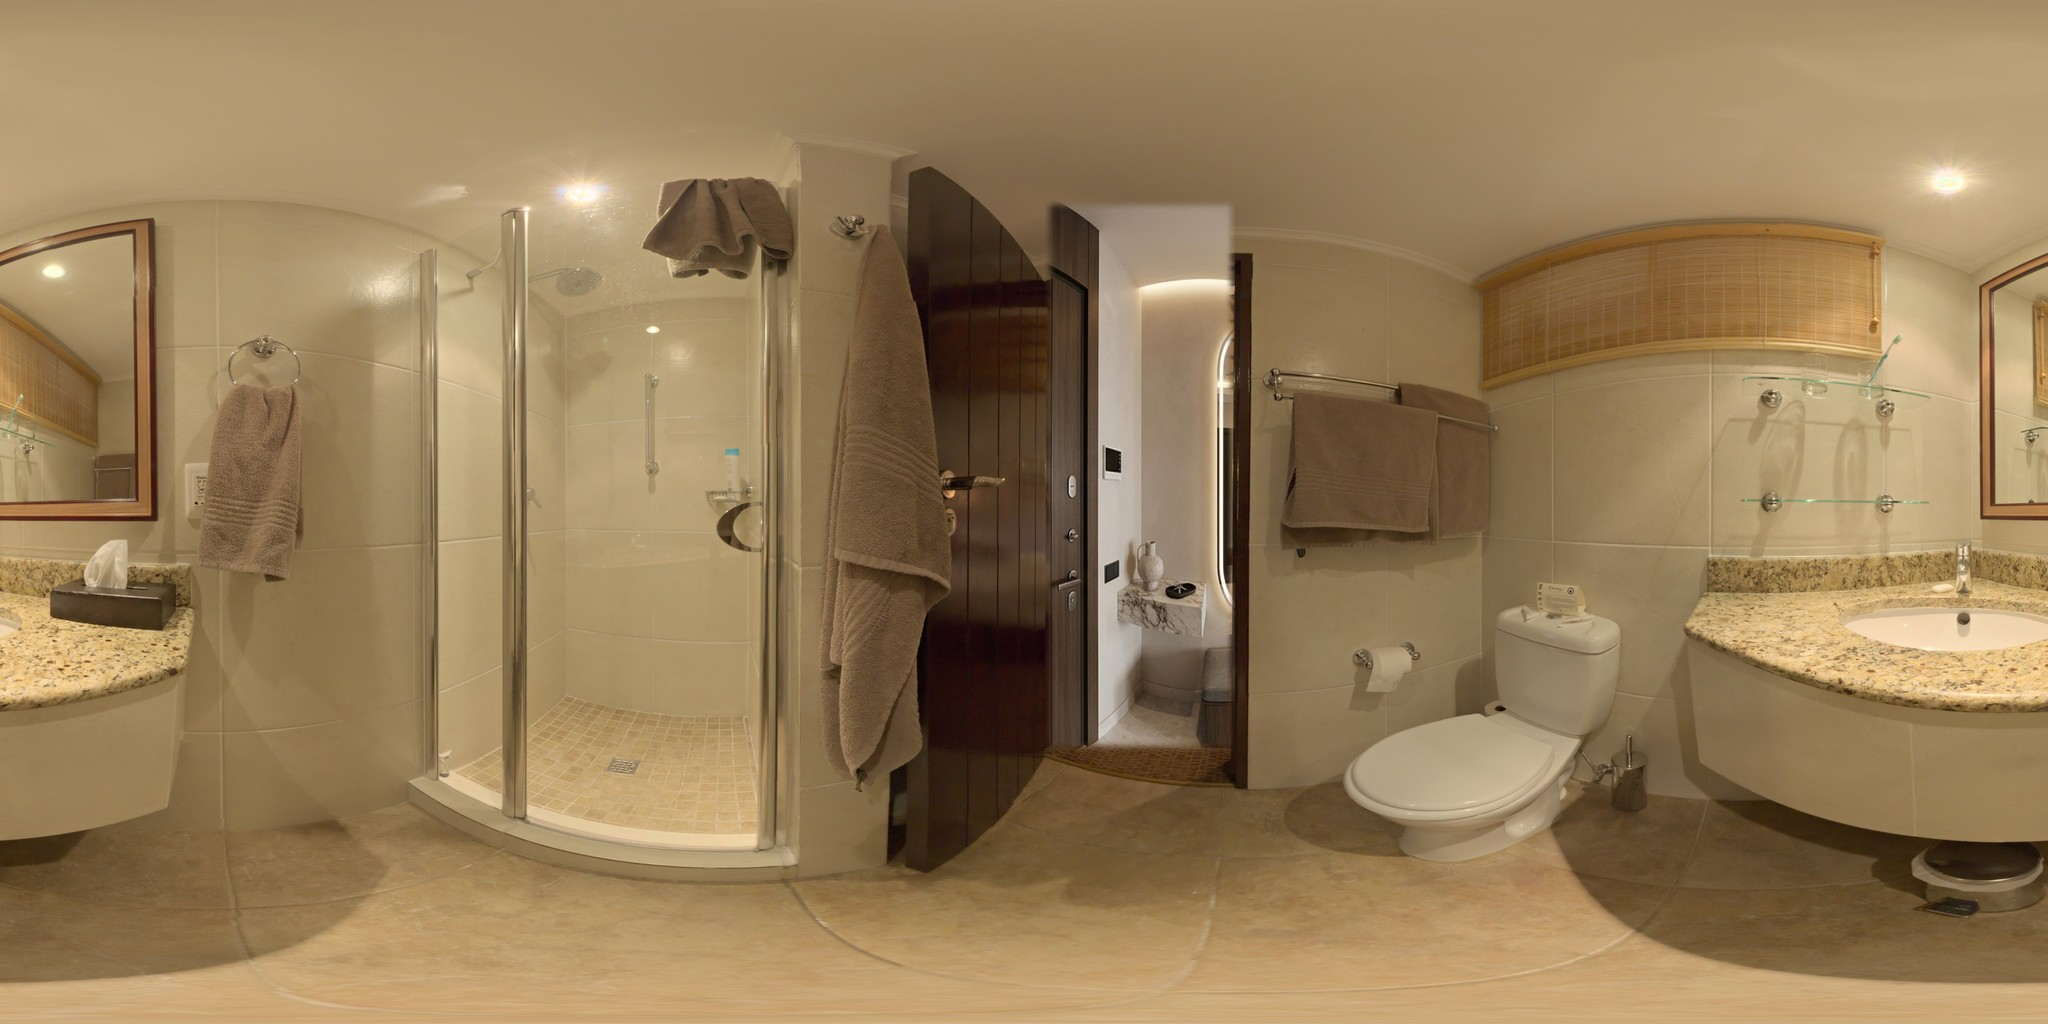
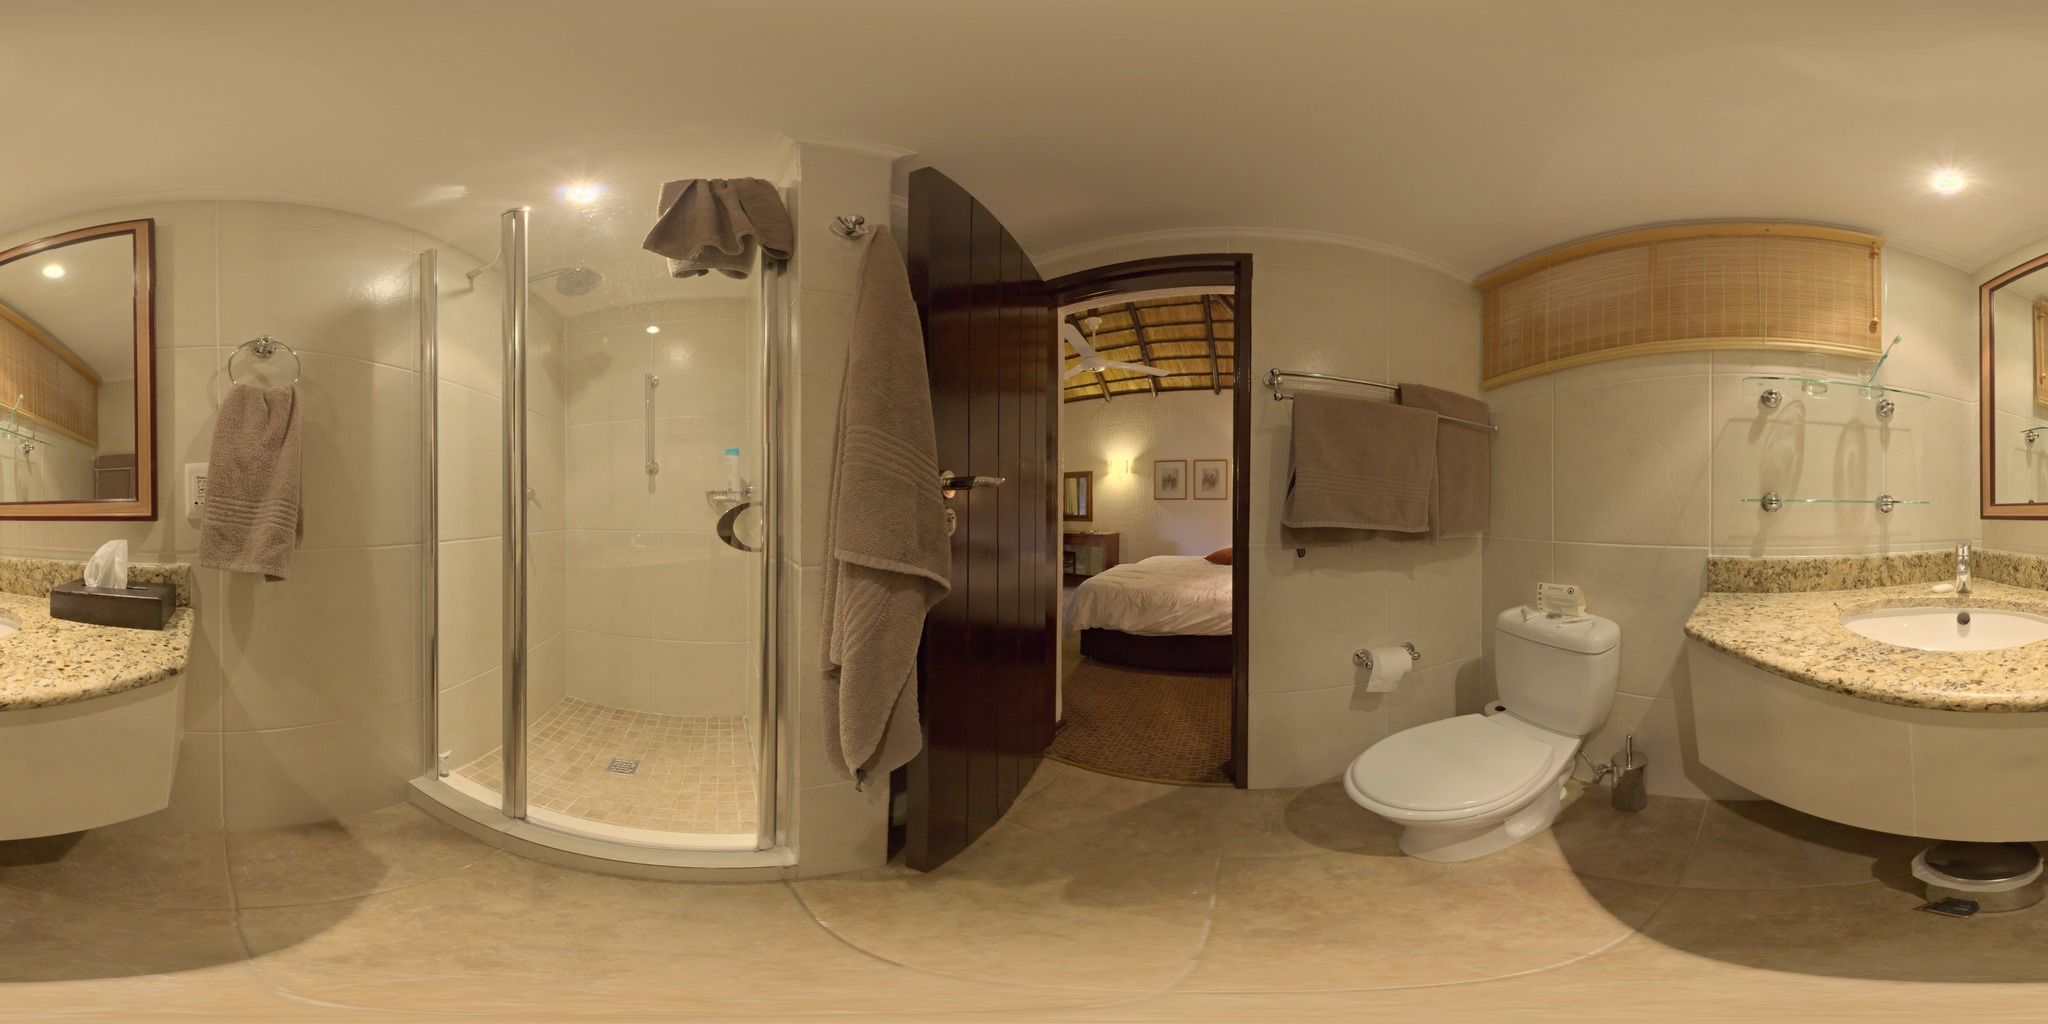
Regenerate Apt 52 360 tour: Pristine ultra-HD renders matching blueprint 1:1, exact door-aligned hotspots, no manual seams

Changed region(s): [[0.5, 0.1875, 0.625, 0.75]]

diff --git a/tour_360/tour_viewer.js b/tour_360/tour_viewer.js
@@ -16,11 +16,11 @@
         name: "Dəhliz / Giriş Zonası",
         icon: "🚪",
         image: "tour_360/apt_52/hall.jpg",
-        initialLon: 18,
+        initialLon: 16,
         hotspots: [
-          { target: "living", pitch: -3.2, yaw: 17.8, label: "🛋 Qonaq Otağı & Mətbəx" },
-          { target: "bedroom", pitch: -4.9, yaw: 48.5, label: "🛏 Əsas Yataq Otağı" },
-          { target: "bathroom", pitch: -4.9, yaw: 132.9, label: "🚿 Hamam Otağı" }
+          { target: "living", pitch: -3.2, yaw: 16.0, label: "🛋 Qonaq Otağı & Mətbəx" },
+          { target: "bathroom", pitch: -6.7, yaw: 92.5, label: "🚿 Hamam Otağı" },
+          { target: "bedroom", pitch: -6.7, yaw: 152.2, label: "🛏 Əsas Yataq Otağı" }
         ]
       },
       living: {
@@ -28,10 +28,10 @@
         name: "Qonaq Otağı & Açıq Mətbəx",
         icon: "🛋",
         image: "tour_360/apt_52/living.jpg",
-        initialLon: 60,
+        initialLon: 10,
         hotspots: [
-          { target: "hall", pitch: -6.7, yaw: -23.6, label: "🚪 Dəhlizə Qayıt" },
-          { target: "balcony", pitch: -6.7, yaw: 122.3, label: "🌿 Eyvana (Balkona) Çıxış" }
+          { target: "balcony", pitch: -3.2, yaw: 9.8, label: "🌿 Eyvana (Balkona) Çıxış" },
+          { target: "hall", pitch: -3.2, yaw: 147.0, label: "🚪 Dəhlizə Qayıt" }
         ]
       },
       bedroom: {
@@ -39,10 +39,10 @@
         name: "Əsas Yataq Otağı",
         icon: "🛏",
         image: "tour_360/apt_52/bedroom.jpg",
-        initialLon: 0,
+        initialLon: 30,
         hotspots: [
-          { target: "hall", pitch: -8.4, yaw: -122.0, label: "🚪 Dəhlizə Qayıt" },
-          { target: "balcony", pitch: -4.9, yaw: 30.9, label: "🌿 Eyvana Çıxış" }
+          { target: "balcony", pitch: -3.2, yaw: 30.9, label: "🌿 Eyvana Çıxış" },
+          { target: "hall", pitch: -6.7, yaw: -116.7, label: "🚪 Dəhlizə Qayıt" }
         ]
       },
       bathroom: {
@@ -50,9 +50,9 @@
         name: "Hamam Otağı & Sanitar Qovşağı",
         icon: "🚿",
         image: "tour_360/apt_52/bathroom.jpg",
-        initialLon: 20,
+        initialLon: 3,
         hotspots: [
-          { target: "hall", pitch: -1.4, yaw: 20.4, label: "🚪 Dəhlizə Qayıt" }
+          { target: "hall", pitch: -3.2, yaw: 2.8, label: "🚪 Dəhlizə Qayıt" }
         ]
       },
       balcony: {
@@ -383,7 +383,7 @@
       return;
     }
 
-    const imgUrl = room.image + (room.image.includes("?") ? "" : "?v=20261015f");
+    const imgUrl = room.image + (room.image.includes("?") ? "" : "?v=20261015h");
     textureLoader.load(
       imgUrl,
       (texture) => {

diff --git a/index.html b/index.html
@@ -279,8 +279,8 @@
   <script src="floorplans/floors_data.js?v=20261015d"></script>
   <script src="floorplan-viewer.js?v=20261015d"></script>
   <script src="https://cdn.jsdelivr.net/npm/three@0.165.0/build/three.min.js"></script>
-  <link rel="stylesheet" href="tour_360/tour_viewer.css?v=20261015g" />
-  <script src="tour_360/tour_viewer.js?v=20261015g"></script>
+  <link rel="stylesheet" href="tour_360/tour_viewer.css?v=20261015h" />
+  <script src="tour_360/tour_viewer.js?v=20261015h"></script>
 </head>
 <body>
 

diff --git a/viewer.html b/viewer.html
@@ -279,8 +279,8 @@
   <script src="floorplans/floors_data.js?v=20261015d"></script>
   <script src="floorplan-viewer.js?v=20261015d"></script>
   <script src="https://cdn.jsdelivr.net/npm/three@0.165.0/build/three.min.js"></script>
-  <link rel="stylesheet" href="tour_360/tour_viewer.css?v=20261015g" />
-  <script src="tour_360/tour_viewer.js?v=20261015g"></script>
+  <link rel="stylesheet" href="tour_360/tour_viewer.css?v=20261015h" />
+  <script src="tour_360/tour_viewer.js?v=20261015h"></script>
 </head>
 <body>
 
